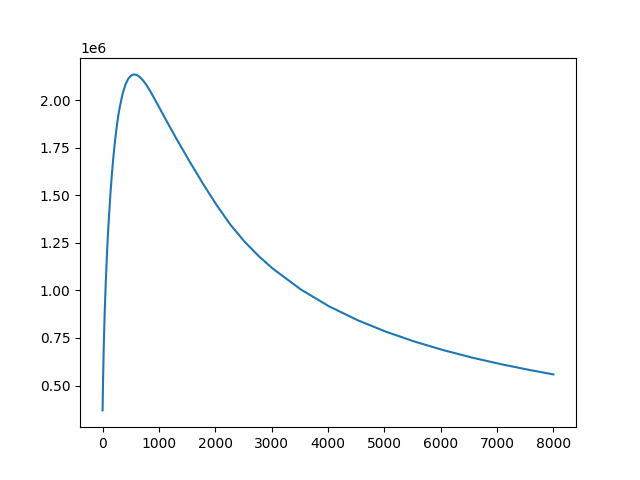
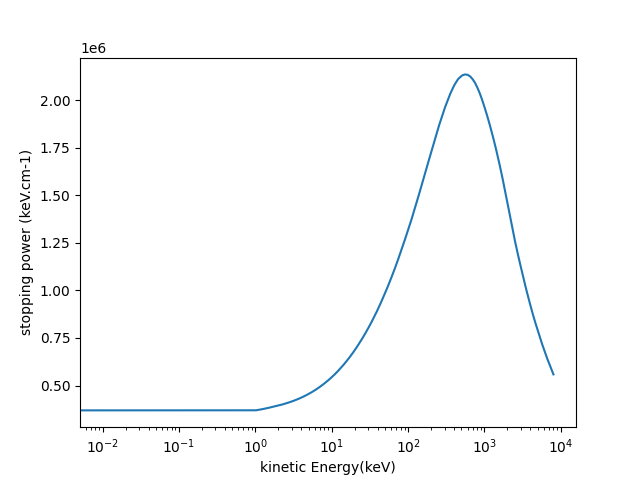
courbe stopping power A

diff --git a/MCTDCRcode/TDCR_model_lib.py b/MCTDCRcode/TDCR_model_lib.py
@@ -282,4 +282,7 @@ for i in range(800000):
     spa.append(stoppingpowerA(e_2,doc,rho=0.866))
 #plt.plot(e1,spe,label='stoppingpowerE')
 plt.plot(e2,spa,label='stoppingpowerA')
+plt.xscale('log')
+plt.xlabel('kinetic Energy(keV)')
+plt.ylabel('stopping power (keV.cm-1)')
 plt.savefig('stoppingpowerA.png')
